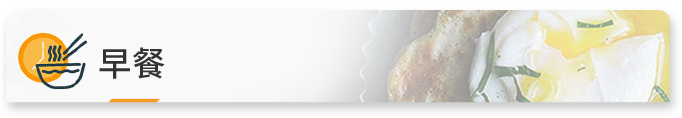
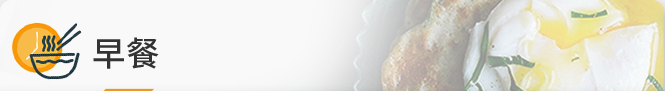
修改类型图片编剧

diff --git a/src/pages/home/home.vue b/src/pages/home/home.vue
@@ -364,8 +364,8 @@ export default {
         margin-bottom 0px;
         height 59px
         img{
-          width 100%;
-          height 59px
+          width 98%;
+          height 50px
         }
       }
       .food-wrap{
@@ -383,9 +383,9 @@ export default {
         min-height 61px;
         padding 10px;
         box-sizing border-box;
-        border-radius 5px;
         .food-list_odd{
           background:rgba(247,247,247,1);
+          border-radius 5px;
         }
         .food-list{
           display flex
